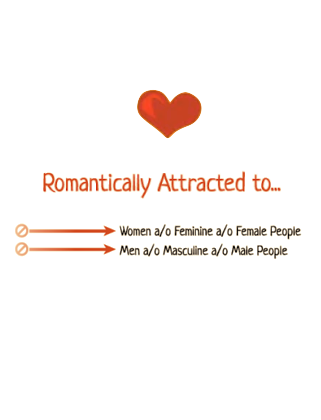
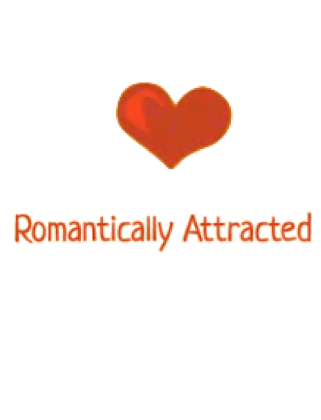
add funcionality  show message game drag

Changed region(s): [[0.0312, 0.1857, 0.9969, 0.619]]

diff --git a/src/views/genderbread.js b/src/views/genderbread.js
@@ -4,12 +4,33 @@ const genderBread = {
     <div class="home_buttons">
       <a href="/" class="btn"><img src="../image/bienes-raices.svg" alt="home"/></a>
     </div>
-    <svg width="600" height="600" id="entorno">
-      <g><image xlink:href="../image/image-drag/genderColor.png" width="401" height="494" x="200" y="30"/></g>
-      <g class="padre" id="0"><image xlink:href="../image/image-drag/cerebro.png" class="movil"/></g>
-      <g class="padre" id="1"><image xlink:href="../image/image-drag/gender.png" class="movil"/></g>
-      <g class="padre" id="2"><image xlink:href="../image/image-drag/expression.png" class="movil"/></g>
-      <g class="padre" id="3"><image xlink:href="../image/image-drag/corazon.png" class="movil"/></g>
+    <section class="">
+      <div  data-type="cerebro" class="mensaje msj-cerebro  hidden__mensaje">
+        <h4>Identity</h4>
+        <img src="../image/image-drag/Identity.png"/>
+      </div>
+      <div  data-type="corazon" class="mensaje msj-corazon  hidden__mensaje">
+        <h4>Attraction</h4>
+        <img src="../image/image-drag/Attracted.png"/>
+      </div>
+      <div  data-type="genero" class="mensaje msj-gender  hidden__mensaje">
+        <h4>Gender</h4>
+        <img src="../image/image-drag/Sex-message.png"/>
+        <img src="../image/image-drag/Sex-Assigned.png"/>
+      </div>
+      <div  data-type="expresion" class="mensaje msj-expression  hidden__mensaje">
+        <h4>Expression</h4>
+        <img src="../image/image-drag/Expression-message.png"/>
+      </div>
+      
+    </section>
+    <svg width="800" height="600" id="entorno">
+    
+      <g><image xlink:href="../image/image-drag/genderColor.png" width="401" height="494" x="200" y="35"/></g>
+      <g class="padre" id="0" data-type="cerebro"><image xlink:href="../image/image-drag/cerebro.png" class="movil"/></g>
+      <g class="padre" id="1" data-type="genero"><image xlink:href="../image/image-drag/gender.png" class="movil"/></g>
+      <g class="padre" id="2" data-type="expresion"><image xlink:href="../image/image-drag/expression.png" class="movil"/></g>
+      <g class="padre" id="3" data-type="corazon"><image xlink:href="../image/image-drag/corazon.png" class="movil"/></g>
     </svg>
     `  
   },
@@ -30,13 +51,14 @@ const genderBread = {
     const origX = [352,355,169,393];
     const origY = [27,333,6,213];
     
-    const testing = () => {
+    const testing = (e) => {
       let bien_ubicada = 0
       let padres = document.getElementsByClassName('padre');
       for (let i = 0; i < piezas.length; i++) {
         let posx = parseFloat(padres[i].firstChild.getAttribute('x'));
         let posy = parseFloat(padres[i].firstChild.getAttribute('y'));
         let ide = padres[i].getAttribute('id');
+        
         if (origX[ide] == posx && origY[ide] == posy) {
           bien_ubicada += 1;
         }
@@ -66,8 +88,26 @@ const genderBread = {
         });
     
       }
-    } 
-    
+    };
+
+    const showMessage = (e) => {
+      let piezaToMove = e.target.parentNode.dataset.type;
+      const listaMensajes = document.querySelectorAll('.mensaje');
+      let posx = e.target.getAttribute('x')
+      let posy = e.target.getAttribute('y')
+      let ide = e.target.parentNode.id;
+      
+      if (origX[ide] == posx && origY[ide] == posy) {
+        listaMensajes.forEach(item => {
+          if (item.dataset.type == piezaToMove && item.classList.contains('hidden__mensaje')) {
+            console.log('habilitar');
+            item.classList.remove('hidden__mensaje')
+          }
+          
+        });
+        
+      }
+    };
     
     const iman = () => {
       for (let i = 0; i < piezas.length; i++) {  
@@ -88,15 +128,15 @@ const genderBread = {
       return entorno.lastChild.firstChild;
     };
     
-    const deseleccionarPieza = (evt) => {
+    const deseleccionarPieza = (e) => {
       if (elementSelect != 0 ) {
         elementSelect.removeEventListener('mousemove', moverPieza);
         elementSelect.removeEventListener('mouseout', deseleccionarPieza);
         elementSelect.removeEventListener('mouseup', deseleccionarPieza);
         elementSelect = 0;
       }
-    
-      testing()
+      showMessage(e)
+      testing(e)
     }
     
     const moverPieza= (e) => {

diff --git a/src/main.css b/src/main.css
@@ -2,6 +2,7 @@
   margin: 0;
   padding: 0;
   box-sizing: border-box;
+  font-family: sans-serif;
 }
 
 body {
@@ -39,15 +40,42 @@ footer a {
   text-decoration: none;
   color: white;
 }
-.display-flex {
-  display: flex;
+
+.mensaje img {
+  width: 100%;
+  height: auto;
 }
 
-.alto-estandar {
-  position: relative;
-  width: 100%;
-  height: 80vh;
+.msj-cerebro {
+  position: absolute;
+  width: 200px;
+  left: 70%;
+  top: 17%;
 }
+
+.msj-corazon {
+  position: absolute;
+  width: 28%;
+  left: 65%;
+  top: 54%;
+}
+.msj-gender {
+  position: absolute;
+  width: 20%;
+  left: 8%;
+  top: 55%;
+
+}
+.msj-expression {
+  position: absolute;
+  width: 18%;
+  left: 8%;
+  top: 15%;
+}
+.hidden__mensaje {
+  display: none;
+}
+
 .home_buttons {
   width: 5%;
   margin-left: 2%;
@@ -185,6 +213,7 @@ footer a {
 #entorno {
   display: block;
   margin: 0 auto;
+  position: relative;
 }
 #fondo {
   opacity: 0.3;
